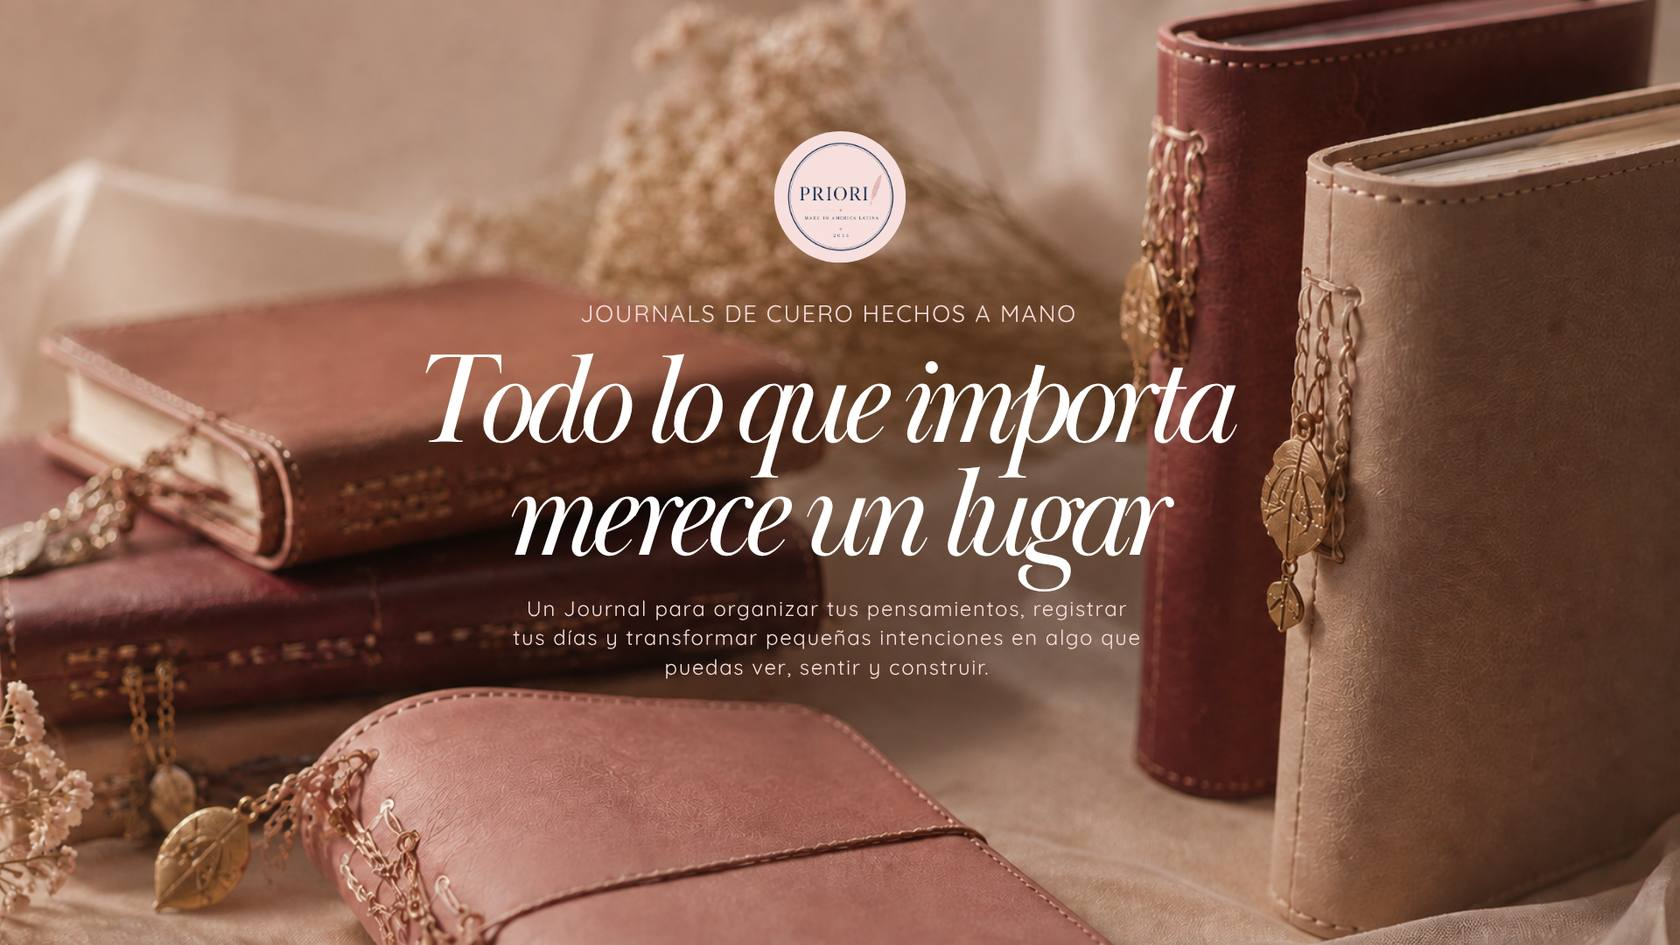
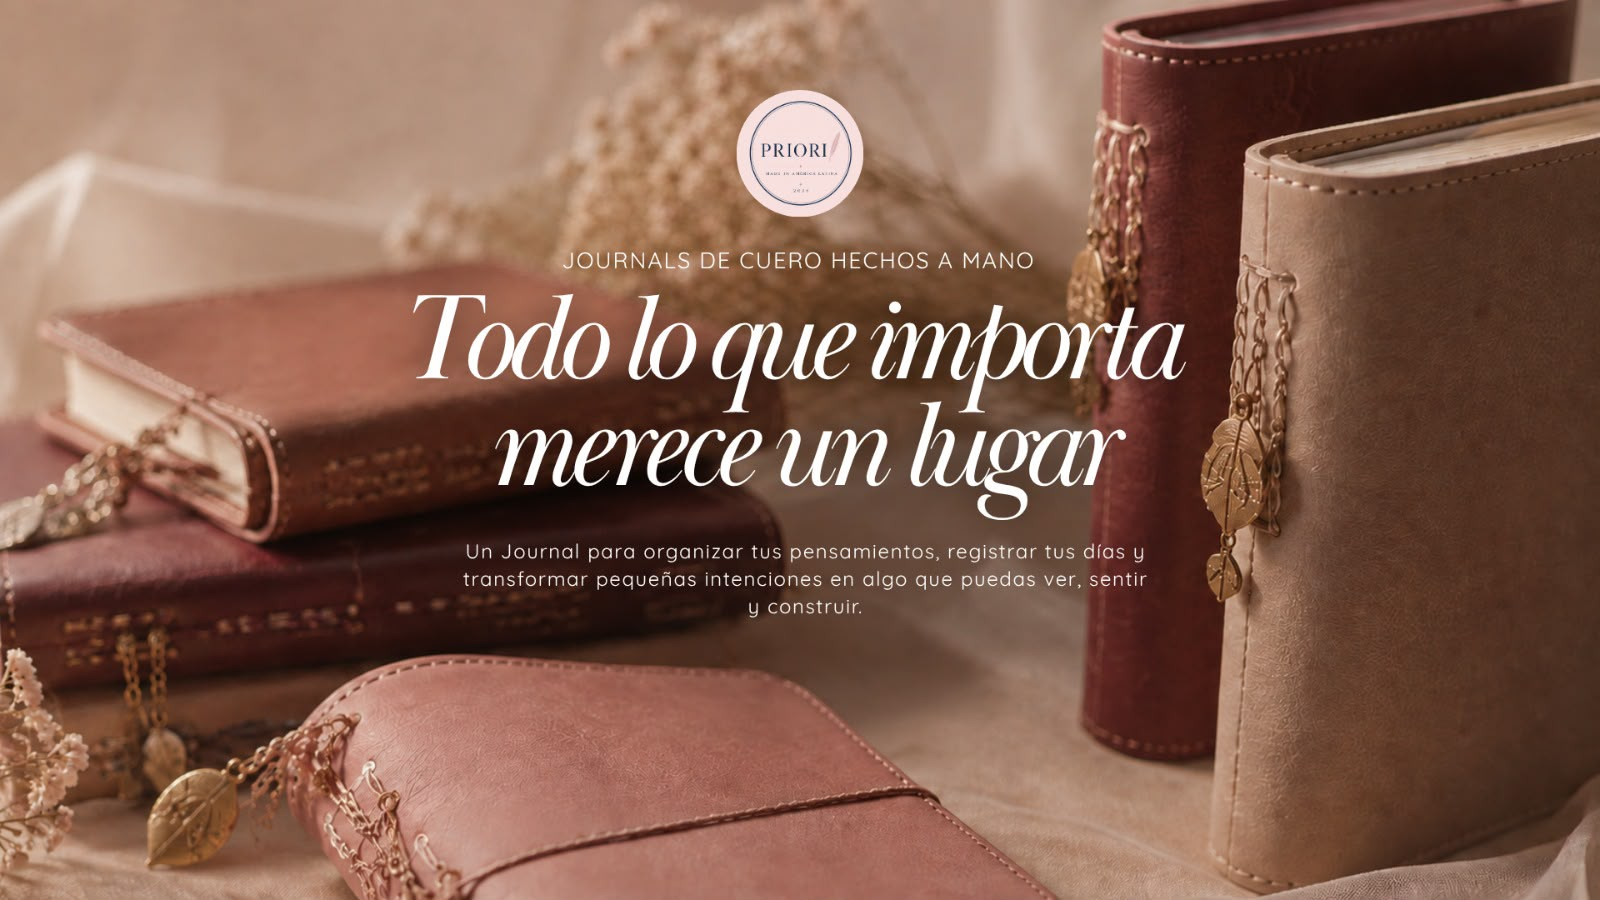
Trocar foto do hero da home por banner1
Substitui assets/img/hero.jpeg pela nova foto (mesma proporção 16:9,
texto/logo já horneados igual ao padrão anterior). No recorte mobile,
o texto horneado da nova foto é mais largo que a margem limpa disponível
de cada lado — ajustado o background-position para empurrar o recorte
levemente além da borda direita da imagem, evitando qualquer letra cortada
pela metade, e a cor de respaldo (letterbox) atualizada para o tom da
nova foto.

Claude-Session: https://claude.ai/code/session_015nqJXKvobdr2ThKGy5eyjF

Changed region(s): [[0.25, 0.0933, 0.75, 0.7156]]

diff --git a/assets/css/home.css b/assets/css/home.css
@@ -6,7 +6,7 @@
 .hero{
   position:relative; min-height:88vh; display:flex; align-items:flex-end; justify-content:center;
   overflow:hidden; padding-bottom:3vh;
-  background-color:#a98670; /* respaldo/"letterbox" en pantallas ultra anchas, tono tomado de la propia foto */
+  background-color:#9c7c66; /* respaldo/"letterbox" en pantallas ultra anchas y en el recorte mobile, tono tomado de la propia foto */
 }
 /* la foto tiene el texto "horneado" en el archivo — un ancho tope evita que en pantallas
    muy anchas y bajas el recorte vertical del background-size:cover empuje ese texto
@@ -29,7 +29,12 @@
 @media (max-width:560px){
   .hero{ min-height:90vh; padding-bottom:8vh; }
   .hero::after{ background:linear-gradient(180deg, rgba(20,16,10,.24) 0%, rgba(18,14,9,.3) 45%, rgba(15,12,8,.72) 100%); }
-  .hero-bg{ background-position:100% 58%; }
+  /* la nueva foto tiene el texto horneado más ancho que el margen limpio a
+     cada lado, así que cualquier recorte "cover" deja asomar una letra —
+     105% empuja el recorte apenas más allá del borde derecho de la imagen
+     (mostrando el color de respaldo, ya afinado al tono de la foto) para
+     que ninguna letra quede a medias. */
+  .hero-bg{ background-position:105% 40%; }
   .hero-mobile-copy{ display:block; position:relative; z-index:2; text-align:center; max-width:340px; margin:0 auto 22px; }
   .hero-mobile-copy .eyebrow{ color:rgba(255,255,255,.85); }
   .hero-mobile-copy .eyebrow::before{ display:none; }
